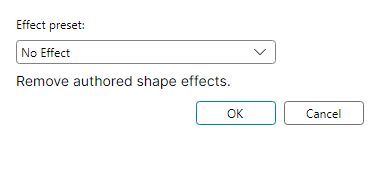
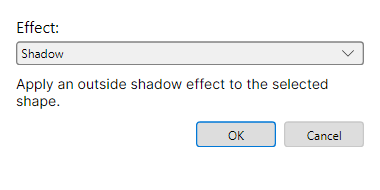
Fix Avalonia shape effects visual parity

diff --git a/tests/FreeX.App.Avalonia.Tests/ShapeEffectsDialogParityTests.cs b/tests/FreeX.App.Avalonia.Tests/ShapeEffectsDialogParityTests.cs
@@ -1,0 +1,43 @@
+using System.IO;
+using FreeX.App.Services;
+using FreeX.Core.Model;
+
+namespace FreeX.App.Avalonia.Tests;
+
+public sealed class ShapeEffectsDialogParityTests
+{
+    [Fact]
+    public void Parity_fixture_seeds_the_Wpf_Shadow_state_through_the_shared_command()
+    {
+        var source = File.ReadAllText(RepoFile("src", "FreeX.App.Avalonia", "MainWindow.ParityCapture.cs"));
+
+        source.Should().Contain("new SetDrawingShapeEffectCommand(");
+        source.Should().Contain("DrawingShapeEffectPreset.Shadow));");
+        source.Should().Contain("await OpenShapeEffectsDialogAsync();");
+    }
+
+    [Fact]
+    public void Dialog_uses_the_Wpf_label_and_shared_Shadow_description()
+    {
+        var source = File.ReadAllText(RepoFile("src", "FreeX.App.Avalonia", "MainWindow.DrawingFormatDialogs.cs"));
+        var plan = ShapeEffectsPlanner.CreatePlan(DrawingShapeEffectPreset.Shadow);
+
+        source.Should().Contain("StripDisplayMnemonic(UiText.Get(\"ShapeEffects_EffectLabel\"))");
+        source.Should().Contain("HorizontalAlignment = AvaloniaHorizontalAlignment.Stretch");
+        plan.SelectedPreset.Should().Be(DrawingShapeEffectPreset.Shadow);
+        plan.Options.Single(option => option.Preset == DrawingShapeEffectPreset.Shadow)
+            .DescriptionKey.Should().Be("ShapeEffects_ShadowDescription");
+    }
+
+    private static string RepoFile(params string[] parts)
+    {
+        var directory = new DirectoryInfo(AppContext.BaseDirectory);
+        while (directory is not null && !File.Exists(Path.Combine(directory.FullName, "FreeX.slnx")))
+            directory = directory.Parent;
+
+        if (directory is null)
+            throw new DirectoryNotFoundException("Could not find repository root containing FreeX.slnx.");
+
+        return Path.Combine(new[] { directory.FullName }.Concat(parts).ToArray());
+    }
+}

diff --git a/src/FreeX.App.Avalonia/MainWindow.DrawingFormatDialogs.cs b/src/FreeX.App.Avalonia/MainWindow.DrawingFormatDialogs.cs
@@ -378,8 +378,9 @@ public sealed partial class MainWindow
         {
             ItemsSource = options,
             SelectedIndex = ShapeEffectsPlanner.FindOptionIndex(plan.Options, plan.SelectedPreset),
-            MinWidth = 260,
+            HorizontalAlignment = AvaloniaHorizontalAlignment.Stretch,
         };
+        effectBox.Margin = new Thickness(0, 0, 0, 10);
         ApplyDrawingComboBoxChrome(effectBox);
         AutomationProperties.SetName(effectBox, UiText.Get("ShapeEffects_EffectAutomationName"));
         AutomationProperties.SetAutomationId(effectBox, "ShapeEffectsPresetBox");
@@ -422,13 +423,24 @@ public sealed partial class MainWindow
         var content = new StackPanel
         {
             Margin = new Thickness(16),
-            Spacing = 8,
+            Spacing = 0,
             Children =
             {
-                new TextBlock { Text = UiText.Get("ShapeEffects_Label"), Foreground = HeaderForeground, FontSize = 12, FontFamily = FormulaBarFontFamily },
+                new TextBlock
+                {
+                    Text = StripDisplayMnemonic(UiText.Get("ShapeEffects_EffectLabel")),
+                    Foreground = HeaderForeground,
+                    FontSize = 16,
+                    FontFamily = FormulaBarFontFamily,
+                    Margin = new Thickness(0, 0, 0, 4),
+                },
                 effectBox,
-                descriptionText,
-                AvaloniaCompactDialogChrome.CreateActionRow([ok, cancel], new Thickness(0, 4, 0, 0)),
+                new Border
+                {
+                    Child = descriptionText,
+                    Margin = new Thickness(0, 0, 0, 12),
+                },
+                AvaloniaCompactDialogChrome.CreateActionRow([ok, cancel]),
             },
         };
         dialog.Content = content;

diff --git a/src/FreeX.App.Avalonia/MainWindow.ParityCapture.cs b/src/FreeX.App.Avalonia/MainWindow.ParityCapture.cs
@@ -1572,7 +1572,20 @@ public sealed partial class MainWindow
         await ShowWithSelectedParityChartAsync(ShowFormatChartAreaDialog);
 
     private async Task ShowShapeEffectsParityDialogAsync() =>
-        await ShowWithSelectedParityShapeAsync(OpenShapeEffectsDialogAsync);
+        await ShowWithSelectedParityShapeAsync(async () =>
+        {
+            if (ResolveSelectedShape() is { } shape)
+            {
+                var outcome = _session.ExecuteReviewCommand(new SetDrawingShapeEffectCommand(
+                    _session.ActiveSheet.Id,
+                    shape.Id,
+                    DrawingShapeEffectPreset.Shadow));
+                if (outcome.Success)
+                    RefreshShell(_statusText.Text ?? "Ready");
+            }
+
+            await OpenShapeEffectsDialogAsync();
+        });
 
     private async Task ShowShapeGradientParityDialogAsync()
     {

diff --git a/docs/parity/dialog-visual-evidence-summary.md b/docs/parity/dialog-visual-evidence-summary.md
@@ -63,7 +63,6 @@ Outliers are ranked by a deterministic triage score: normalized 32x32 ARGB sampl
 | Surface id | WPF logical size | Avalonia logical size | Raw PNG sizes | Bucket | Evidence flag | Score | Sample delta | Luma delta | Non-bg delta |
 | --- | ---: | ---: | --- | --- | --- | ---: | ---: | ---: | ---: |
 | dialog.PrintPreview | 1120x700 | 1120x700 | 1120x700 px @ 96 DPI vs 1120x700 px @ 96 DPI |  |  | 0.378 | 0.126 | 0.061 | 0.191 |
-| dialog.ShapeEffects | 380x190 | 380x190 | 570x285 px @ 144 DPI vs 380x190 px @ 96 DPI |  |  | 0.215 | 0.031 | 0.021 | 0.163 |
 | dialog.Sparkline | 380x280 | 380x280 | 380x280 px @ 96 DPI vs 380x280 px @ 96 DPI |  |  | 0.187 | 0.054 | 0.016 | 0.117 |
 | dialog.AllowEditRanges | 430x360 | 430x360 | 645x540 px @ 144 DPI vs 430x360 px @ 96 DPI |  |  | 0.187 | 0.039 | 0.002 | 0.145 |
 | dialog.FormatCells.Border | 620x597 | 620x597 | 620x597 px @ 96 DPI vs 620x597 px @ 96 DPI |  |  | 0.186 | 0.048 | 0.025 | 0.112 |
@@ -72,6 +71,7 @@ Outliers are ranked by a deterministic triage score: normalized 32x32 ARGB sampl
 | dialog.FormatCells.Fill | 620x540 | 620x540 | 620x540 px @ 96 DPI vs 620x540 px @ 96 DPI |  |  | 0.159 | 0.031 | 0.038 | 0.090 |
 | dialog.Options.QuickAccessToolbar | 744x521 | 744x521 | 744x521 px @ 96 DPI vs 744x521 px @ 96 DPI |  |  | 0.139 | 0.021 | 0.018 | 0.101 |
 | dialog.PageSetup.HeaderFooter | 600x560 | 600x560 | 600x560 px @ 96 DPI vs 600x560 px @ 96 DPI |  |  | 0.127 | 0.040 | 0.012 | 0.076 |
+| dialog.Consolidate | 380x420 | 380x420 | 570x630 px @ 144 DPI vs 380x420 px @ 96 DPI |  |  | 0.126 | 0.032 | 0.011 | 0.083 |
 
 ## Scale-Aware Dimension Mismatch Details
 
@@ -170,7 +170,7 @@ These rows have a DPI-normalized checked-in PNG size that disagrees with the dia
 | dialog.ScenarioManager | dialog.ScenarioManager.png | 360x420 | 540x630 px @ 144 DPI | True | dialog.ScenarioManager.png | 360x420 | 360x420 px @ 96 DPI | True | True | 0.104 |
 | dialog.SelectDataSource | dialog.SelectDataSource.png | 620x500 | 930x750 px @ 144 DPI | True | dialog.SelectDataSource.png | 620x500 | 620x500 px @ 96 DPI | True | True | 0.075 |
 | dialog.SelectionPane | dialog.SelectionPane.png | 520x440 | 520x440 px @ 96 DPI | True | dialog.SelectionPane.png | 520x440 | 520x440 px @ 96 DPI | True | True | 0.122 |
-| dialog.ShapeEffects | dialog.ShapeEffects.png | 380x190 | 570x285 px @ 144 DPI | True | dialog.ShapeEffects.png | 380x190 | 380x190 px @ 96 DPI | True | True | 0.215 |
+| dialog.ShapeEffects | dialog.ShapeEffects.png | 380x190 | 570x285 px @ 144 DPI | True | dialog.ShapeEffects.png | 380x190 | 380x190 px @ 96 DPI | True | True | 0.032 |
 | dialog.ShapeGradient | dialog.ShapeGradient.png | 500x300 | 500x300 px @ 96 DPI | True | dialog.ShapeGradient.png | 500x300 | 500x300 px @ 96 DPI | True | True | 0.082 |
 | dialog.Sort | dialog.Sort.png | 760x500 | 760x500 px @ 96 DPI | True | dialog.Sort.png | 760x500 | 760x500 px @ 96 DPI | True | True | 0.042 |
 | dialog.SortOptions | dialog.SortOptions.png | 330x260 | 495x390 px @ 144 DPI | True | dialog.SortOptions.png | 330x260 | 330x260 px @ 96 DPI | True | True | 0.111 |
